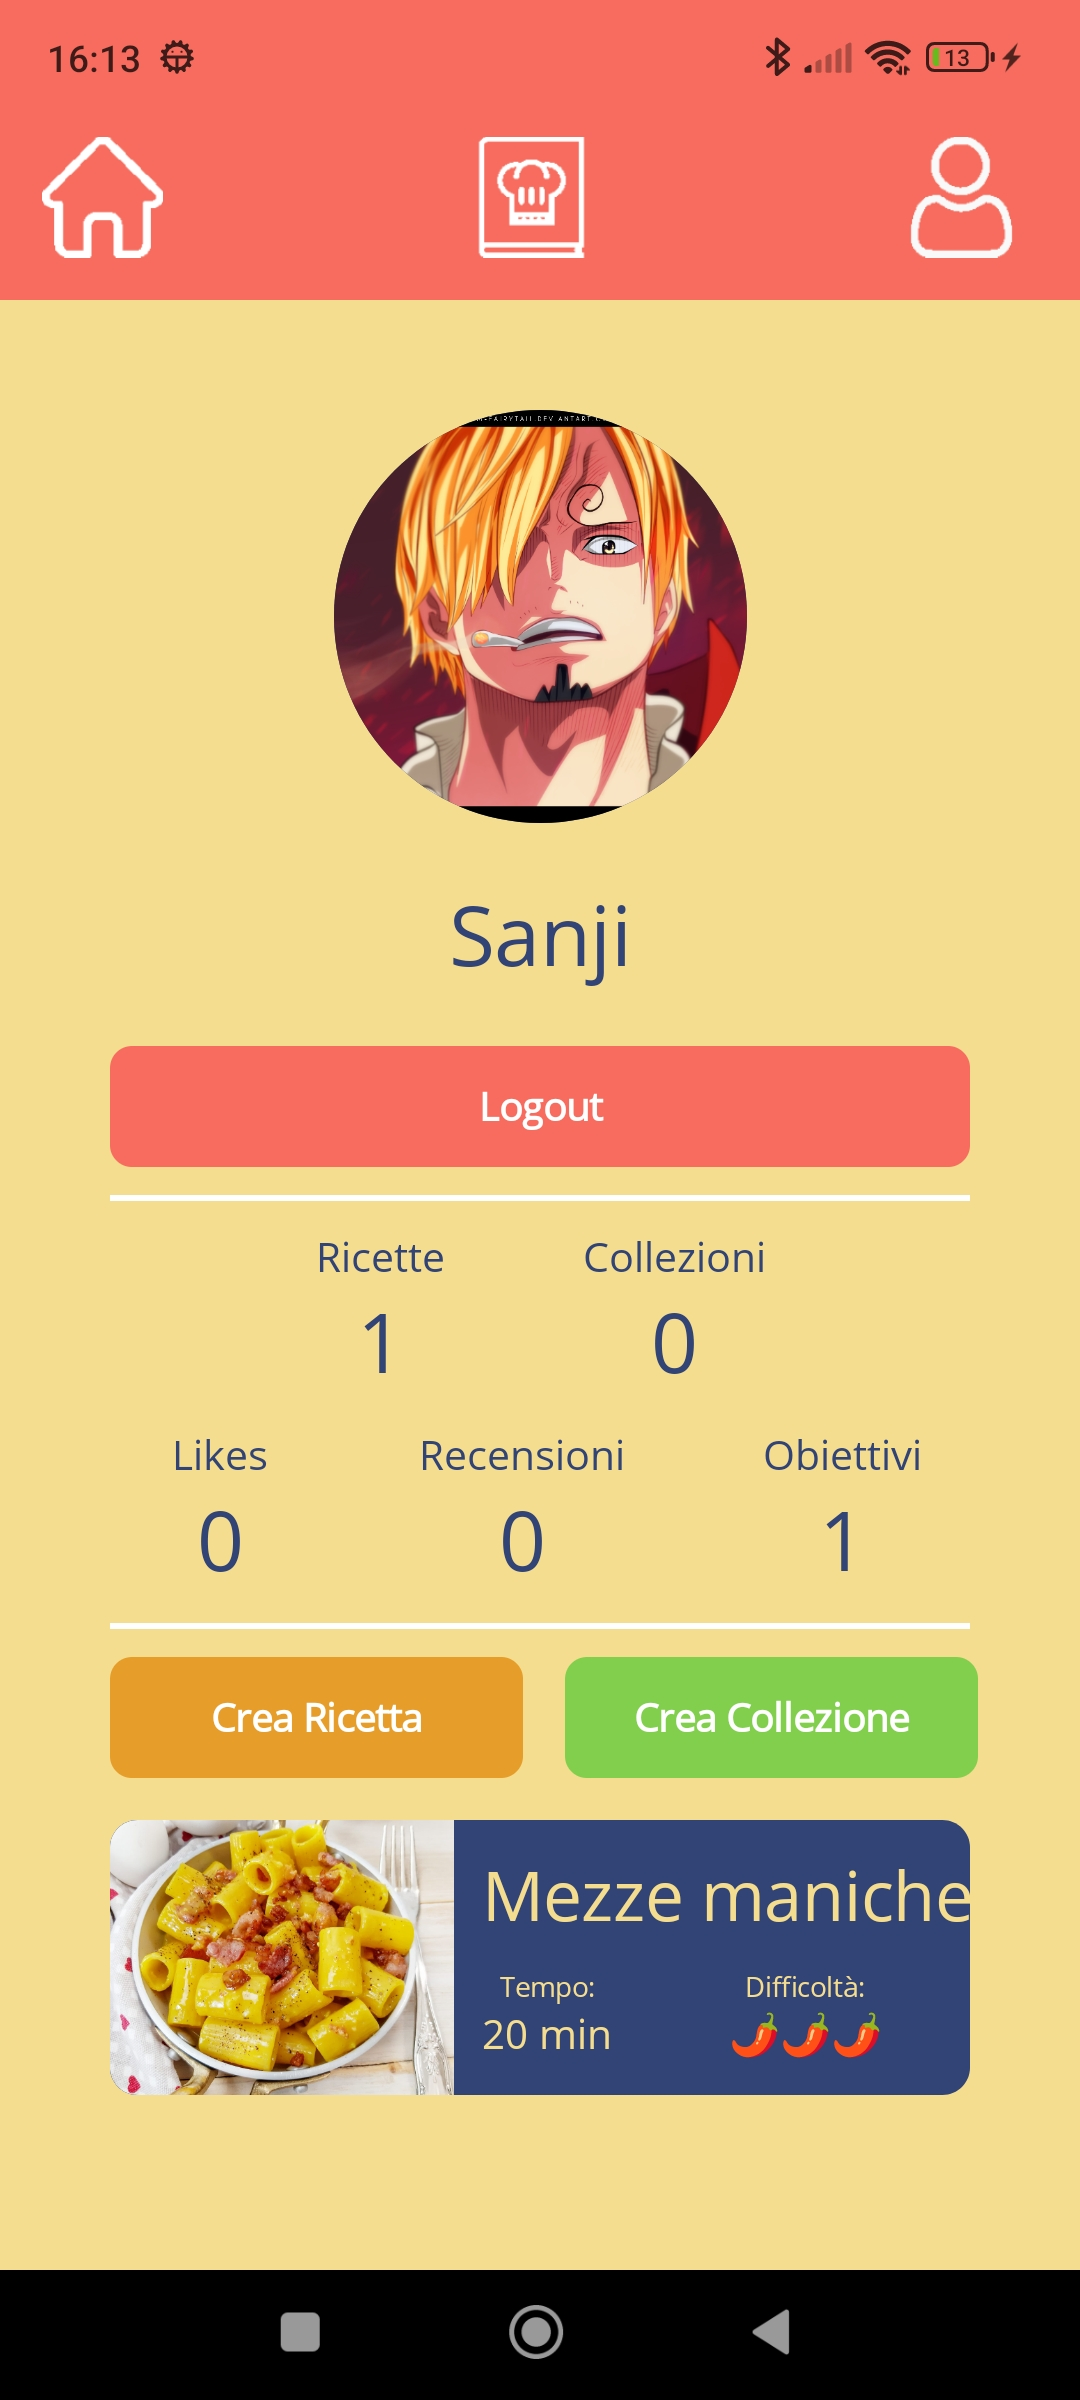
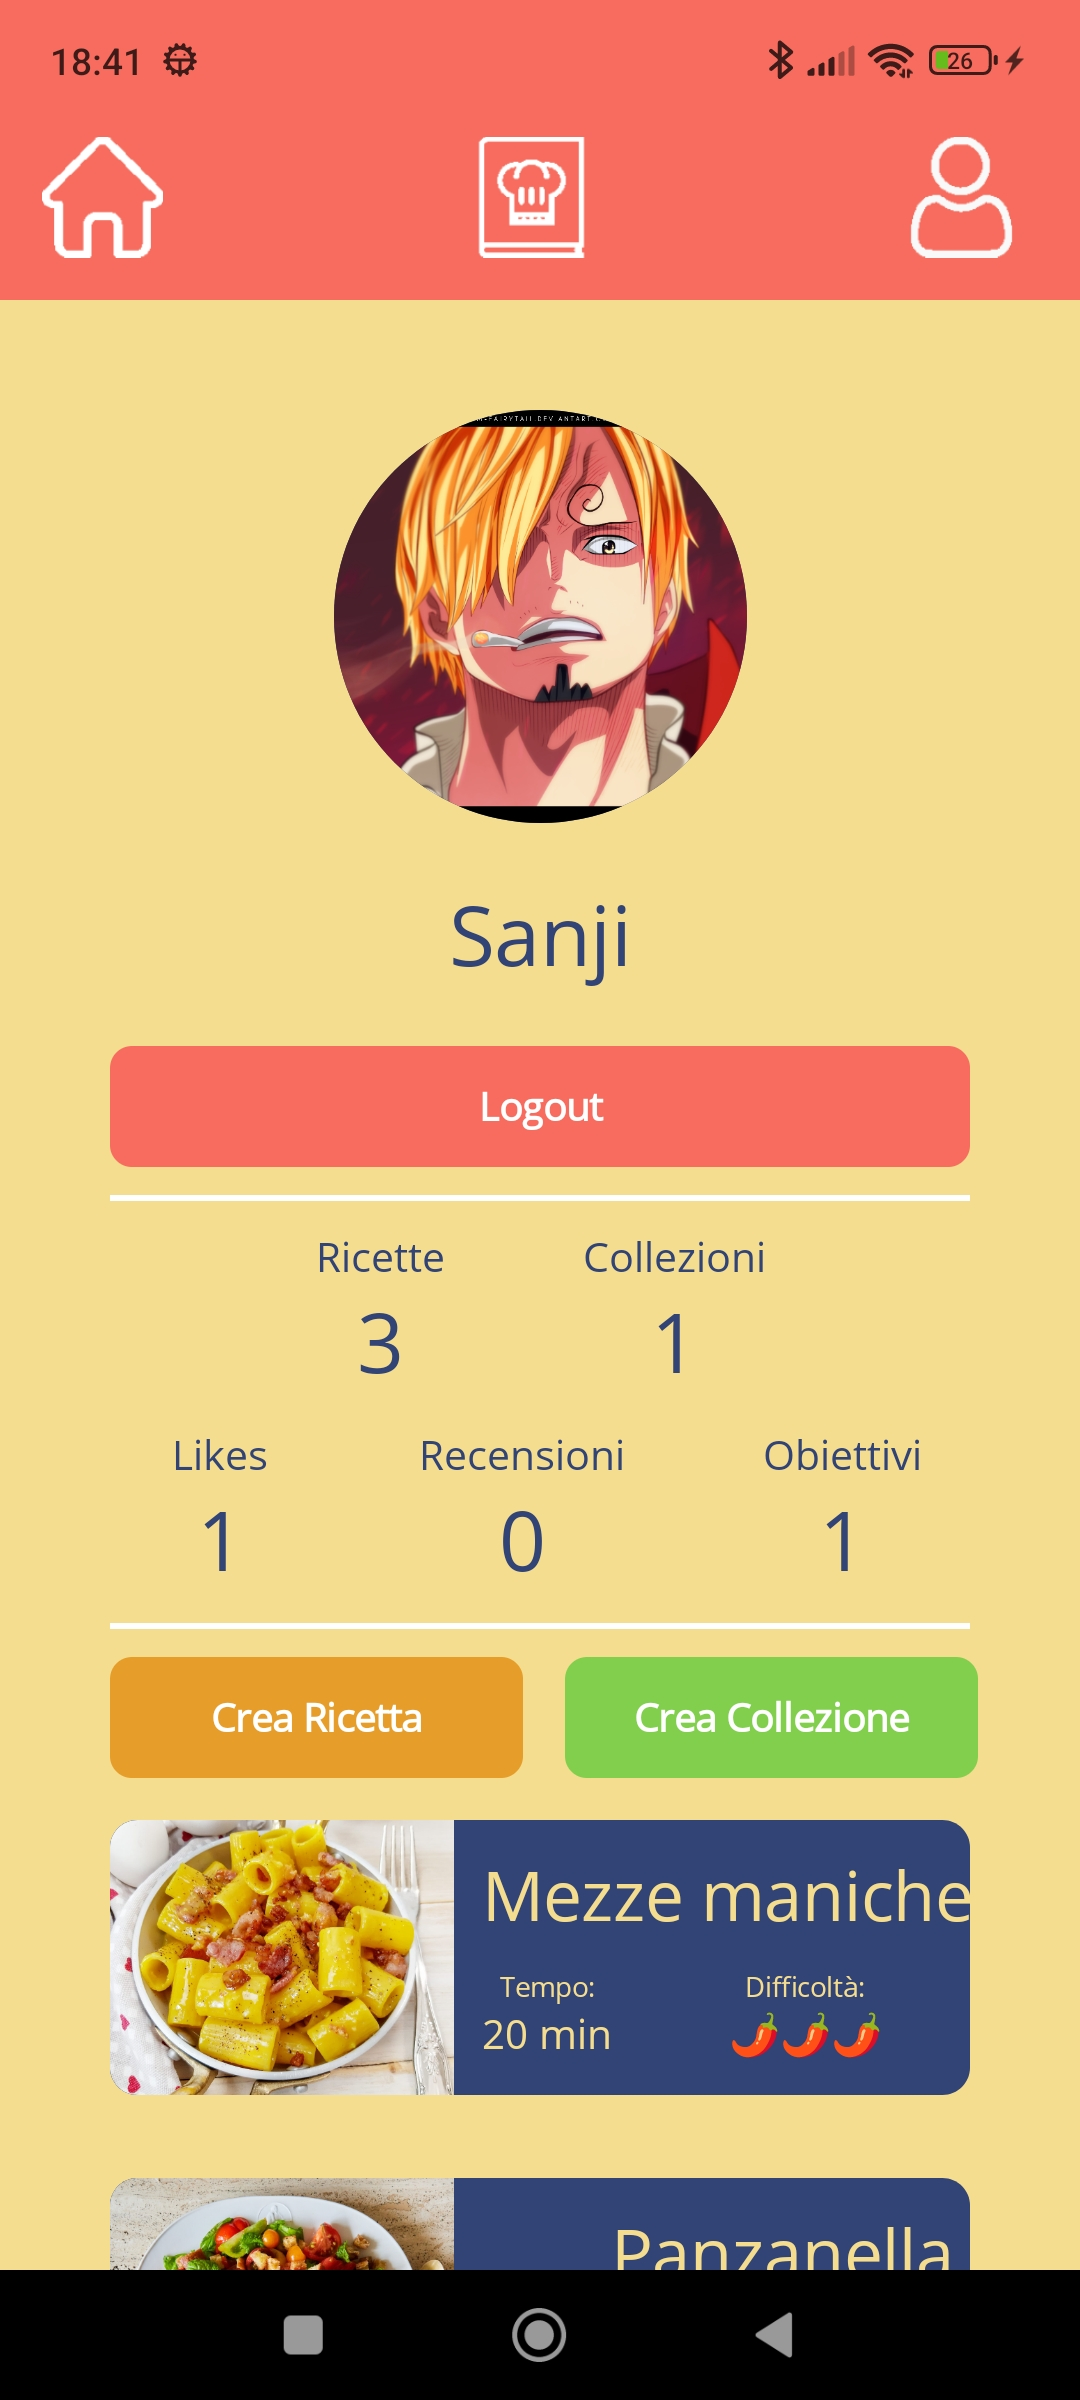
report

diff --git a/Report/report.tex b/Report/report.tex
@@ -221,4 +221,36 @@ In fondo alla pagina si ha la sezione delle valutazioni con la possibilità di i
         \includegraphics[width=0.9\linewidth]{app_images/CollectionPage2.jpg}
     \end{minipage}
 \end{figure}
+\\\\\\\\Tornando sul menu sovrastante di navigazione, clickando sull'icona a destra si andrà sulla propria pagina utente.
+\\In questa pagina si ha la foto profilo inserita in fase di registrazione e il nome, seguiti da il tasto per effettuare il logout e i seguenti contatori delle statistiche dell'utente:
+\begin{itemize}
+    \item Numero di ricette create
+    \item Numero di collezioni create
+    \item Numero di recensioni create
+    \item Numero di ricette aggiunte ai preferiti
+    \item Numero di obiettivi ottenuti
+\end{itemize}
+Infine si hanno i pulsanti per la creazione di ricette e collezioni e una lista dove, al click di un contatore, compariranno gli elementi a cui fa riferimento quel contatore.
+\begin{figure}[h!]
+    \centering
+    \includegraphics[width=0.4\linewidth]{app_images/UserPage.jpg}
+\end{figure}
+\\Clickando sul pulsante per la creazione di una ricetta comparirà la suddetta pagina con i vari campi da completare: 
+\textbf{nome}, \textbf{descrizione}, \textbf{foto} (selezionandola dal proprio dispositivo), \textbf{lista dei passaggi} (scrivendo un passaggio alla volta e aggiungendolo alla lista), \textbf{difficoltà}, \textbf{tempo} e la \textbf{lista degli ingredienti} con la relativa quantità in grammi.\\
+\begin{figure}[h!]
+    \begin{minipage}{.5\textwidth}
+        \centering
+        \includegraphics[width=0.9\linewidth]{app_images/RecipeCreation.jpg}
+    \end{minipage}
+    \begin{minipage}{.5\textwidth}
+        \centering
+        \includegraphics[width=0.9\linewidth]{app_images/RecipeCreation2.jpg}
+    \end{minipage}
+\end{figure}
+\\\\\\\\\\\\\\Mentre clickando su quello per la creazione di collezioni/diete comparirà la pagina con i seguenti campi da completare:
+\textbf{nome}, \textbf{descrizione}, checkbox per segnalare se si sta creando una \textbf{dieta} e scegliere la categoria nutrizionale e la \textbf{lista delle ricette} da aggiungere.
+\begin{figure}[h!]
+    \centering
+    \includegraphics[width=0.5\linewidth]{app_images/CollectionCreation.jpg}
+\end{figure}
 \end{document}
